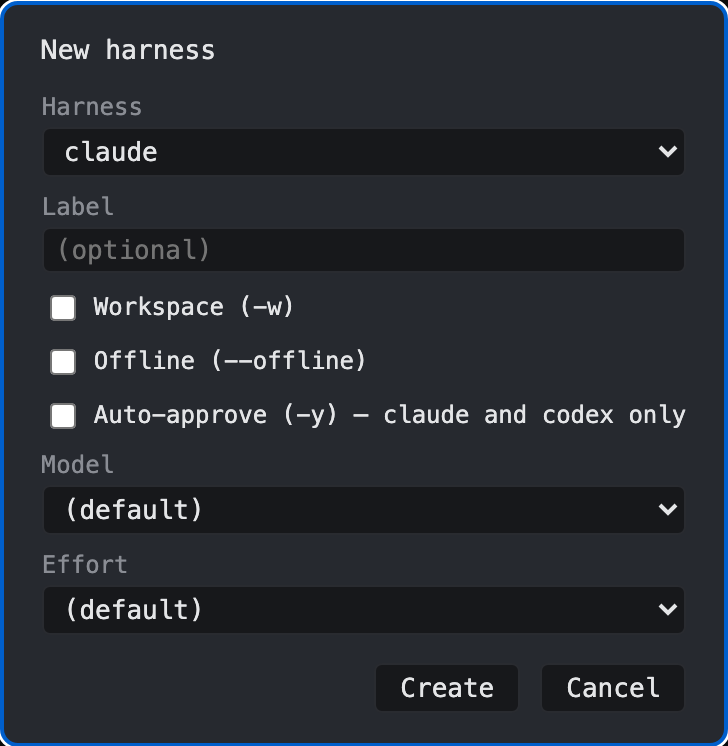
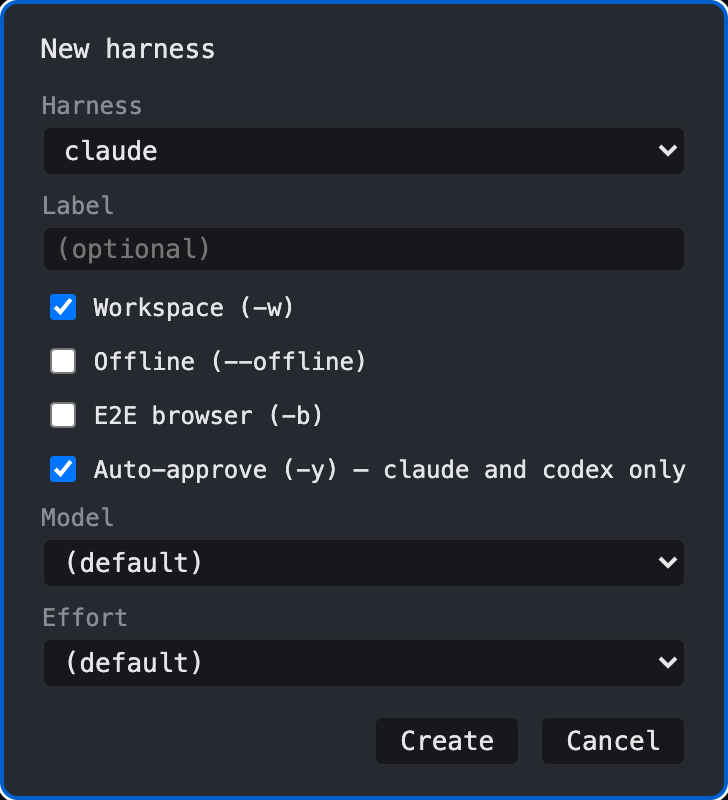
docs(harness): refresh browser launch dialog screenshot

diff --git a/product/plans/complete/browser-launch-dialog-screenshot.md b/product/plans/complete/browser-launch-dialog-screenshot.md
@@ -1,0 +1,33 @@
+# Refresh the harness launch dialog screenshot
+
+**Complexity: 2/10** - regenerate one deterministic documentation screenshot from the built UI and update its alternative text.
+
+## Issue
+
+The harness page describes the new **E2E browser** checkbox, but its launch-dialog screenshot and alternative text still show the older form. The image now contradicts both `HarnessLaunchDialog.tsx` and `product/specs/harness.md`.
+
+## Approach
+
+Use the existing host-only documentation screenshot pipeline, which launches the real built application with fixture data and crops the element identified by `data-doc-shot="harness-launch-dialog"`. Regenerate only `harness-launch-dialog.png`, then update the page's alternative text to enumerate the E2E browser control in the same order as the dialog.
+
+## Implementation
+
+1. Build the current web UI with `npm run build:web`.
+2. Run `./scripts/run.mjs docs-screenshots harness-launch-dialog` outside a Janissary sandbox.
+3. Inspect the replacement PNG and confirm **E2E browser (-b)** appears between **Offline** and **Auto-approve**.
+4. Update the screenshot alternative text in `documentation/user-documentation/advanced-agents/harness.md`.
+5. Check every documentation reference to the asset and remove only this resolved backlog entry.
+
+## Tests
+
+Run `./scripts/run.mjs check-diff`. The screenshot generator itself is the integration check for the built UI. Inspect the generated image at its original resolution and confirm the source asset changed while `documentation/.vitepress/dist/` remains untouched.
+
+## Documentation
+
+The PNG and its alternative text are the documentation change. No behavior spec update is needed because the existing spec already names the field and its ordering accurately.
+
+## Out of scope
+
+- AI-generating or hand-editing the screenshot.
+- Updating unrelated screenshots.
+- Committing generated VitePress build output.

diff --git a/product/backlog/pull-request.md b/product/backlog/pull-request.md
@@ -1,17 +1,5 @@
 # pull-request
 
-* Deliver the plan's launch-dialog documentation update by refreshing the screenshot and its alternative text for the E2E browser control.
-
-Existing Issue: The harness documentation describes the new E2E browser checkbox directly above an unchanged screenshot and alternative text that omit that control. Severity: 3/10
-
-Existing Risk: 3/10 - Users see a documented field missing from the page's only visual reference and cannot tell whether the screenshot or their installed UI is current.
-
-Proposal Risk: 1/10 - The screenshot may drift after a later dialog change, but field-enumerating alternative text makes that mismatch visible in source review.
-
-Proposal: Execute ./ai/tasks/work-an-issue.md "PR 975: refresh the launch-dialog screenshot for the E2E browser checkbox". Retake `documentation/public/screenshots/harness-launch-dialog.png` from the branch's current `web/src/harness/HarnessLaunchDialog.tsx`, showing the E2E browser checkbox between Offline and Auto-approve in the ordering specified by `product/specs/harness.md`. Update the image alternative text in `documentation/user-documentation/advanced-agents/harness.md` to include E2E browser, check all references to that screenshot under `documentation/`, and verify the rendered documentation uses the replacement asset rather than the stale built copy under `documentation/.vitepress/dist/`.
-
-
-
 * Keep the browser follow-up artifacts text-reviewable and remove the stale claim that ports are probed.
 
 Existing Issue: The completed plan that replaces a raw NUL in the frame-filter test contains a raw NUL itself and is classified as binary by Git, while the browser-server test still calls the allocator's documented choose-then-bind race a port-probe race even though no probe exists. Severity: 3/10

diff --git a/documentation/user-documentation/advanced-agents/harness.md b/documentation/user-documentation/advanced-agents/harness.md
@@ -39,7 +39,7 @@ harness opencode as quality        → tab "quality-2"
 
 Typing `harness` with no arguments opens a **New harness** dialog instead of erroring: a form with a harness selector, a **Label** field, **Workspace**, **Offline**, and **E2E browser** toggles, an **Auto-approve** toggle, and **Model** and **Effort** dropdowns. **Workspace** starts checked. **Auto-approve** starts checked for claude and codex and disabled for opencode. **E2E browser** starts unchecked and stays available for every harness.
 
-![The New harness dialog, with fields for harness, label, workspace, offline, auto-approve, model, and effort.](/screenshots/harness-launch-dialog.png)
+![The New harness dialog, with fields for harness, label, workspace, offline, E2E browser, auto-approve, model, and effort.](/screenshots/harness-launch-dialog.png)
 
 **Auto-approve** stays disabled unless you've picked claude or codex — the dialog only ever builds a command that's actually valid. Switching between claude and codex keeps your Auto-approve choice; switching to opencode clears and disables it. **Create** launches the harness right away, the same as typing the equivalent command by hand. **Cancel** or `Escape` closes the dialog with nothing launched. Your choices are remembered for the rest of the session, so reopening the dialog restores your last picks and puts focus on **Create** so Return relaunches immediately.
 
